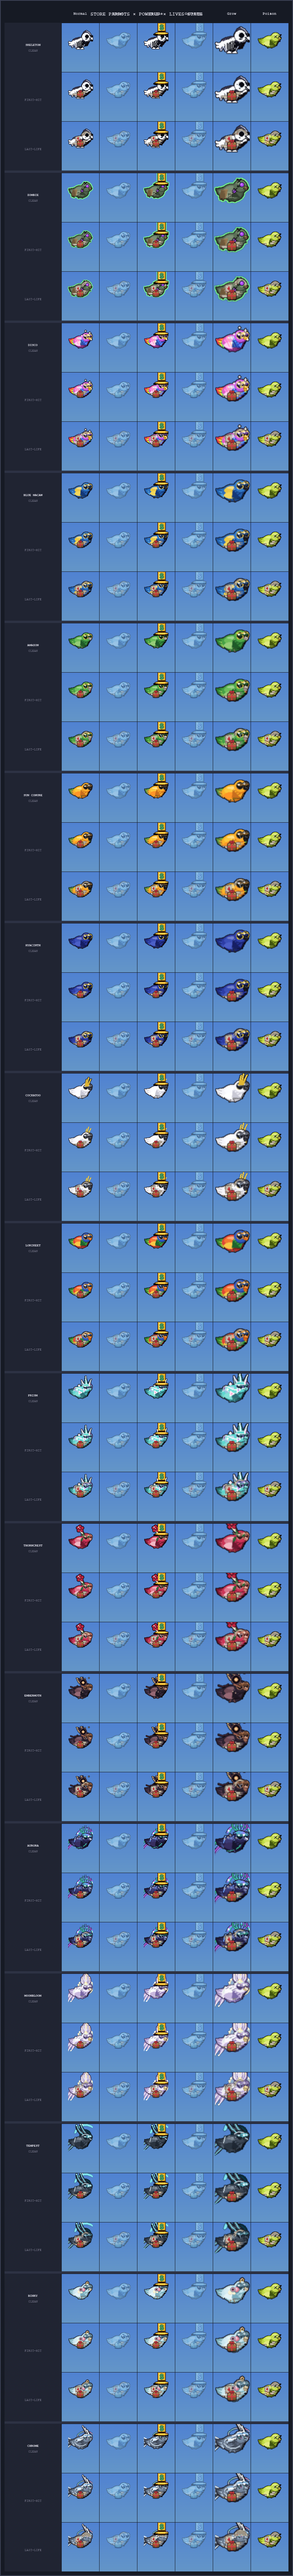
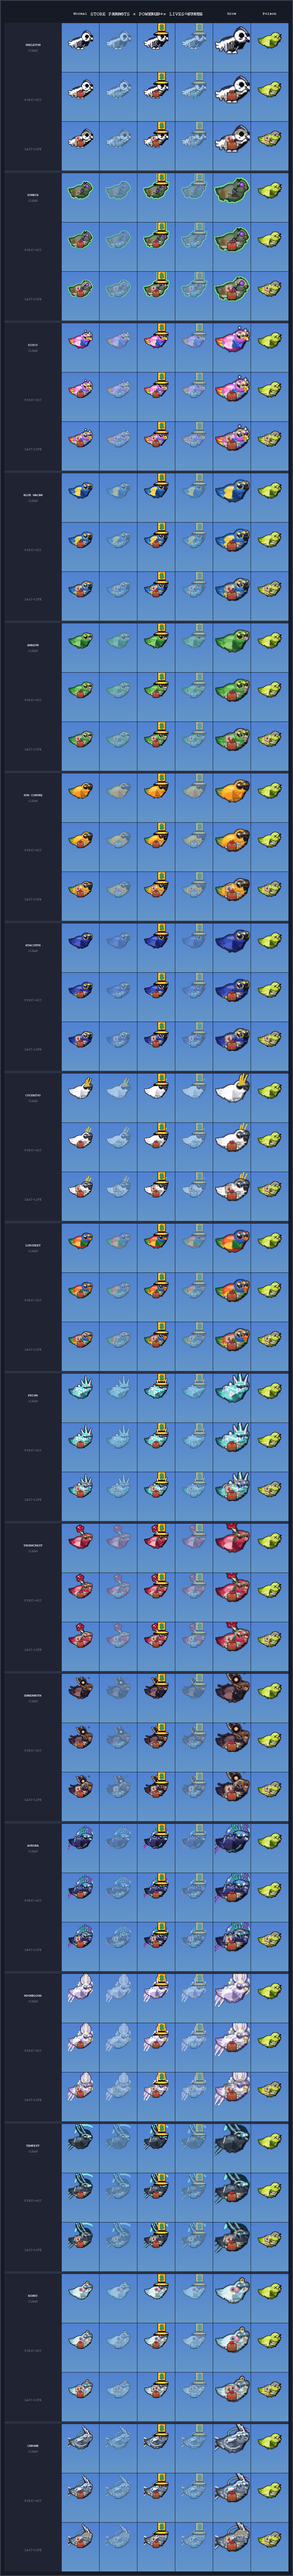
Fix ghost columns to reflect each skin's own accessories
Ghost and ghost_triple cells now tint each skin's own rendered frame
to spectral-cyan instead of rebuilding from the plain P_SPECTRAL body.
Skins with unique elements (disco sparkles, cockatoo crest, aurora halo,
zombie hex-aura, prism crystals, etc.) now show those elements ghosted.

Also fix _ghost_tint() to correctly apply translucency on SRCALPHA surfaces
(aurora, moonbloom, tempest, chrome, zombie) — set_alpha() was silently
ignored on those; now multiplies the alpha channel directly via surfarray.

Removes now-unused _build_ghost_hurt() and _build_ghost_triple_hurt().

Claude-Session: https://claude.ai/code/session_01SYxW5bMXxMEcZRx1arfvCN

Changed region(s): [[0.6202, 0.0, 0.7132, 0.9979], [0.3721, 0.0, 0.4651, 0.9979]]

diff --git a/docs/render_store_skin_powerup_lives_grid.py b/docs/render_store_skin_powerup_lives_grid.py
@@ -132,12 +132,17 @@ def _composite_with_back(comp, back_fn, outline_color):
 
 
 def _ghost_tint(img):
-    """Apply spectral blue numpy tint + translucency in-place."""
+    """Spectral-blue tint + translucency; works on SRCALPHA and non-SRCALPHA."""
     arr = sa.pixels3d(img)
     target = np.array([140, 200, 230], dtype=np.float32)
     arr[:] = (arr.astype(np.float32) * 0.60 + target * 0.40).clip(0, 255).astype(np.uint8)
     del arr
-    img.set_alpha(170)
+    if img.get_flags() & pygame.SRCALPHA:
+        alpha = sa.pixels_alpha(img)
+        alpha[:] = (alpha.astype(np.float32) * (170 / 255)).clip(0, 255).astype(np.uint8)
+        del alpha
+    else:
+        img.set_alpha(170)
 
 
 # ── skin raw composite (unoutlined, for hat insertion) ────────────────────────
@@ -247,49 +252,6 @@ def _build_triple(palette, paint_fn, back_fn, outline_color, draw_std_lenses,
     return result
 
 
-# ── ghost / ghost_triple builders (skin-agnostic) ─────────────────────────────
-
-def _build_ghost_hurt(lives_state):
-    """Spectral-blue macaw + lives dressings + ghost tint. Same for all skins."""
-    if lives_state == "last_life":
-        base = _build_parrot_with_palette(10.0, P_SPECTRAL, draw_lenses=False)
-        _h_draw_bandaids(base)
-        _h_draw_headwrap(base)
-        _draw_lenses(base, 50, 20, P_SPECTRAL)
-        _h_draw_chest_dressing(base)
-        _h_draw_ragged_cuts(base)
-        _h_draw_cracked_lens(base)
-    else:
-        base = _build_parrot_with_palette(10.0, P_SPECTRAL)
-        _h_draw_bandaids(base)
-        _fh_draw_single_crack(base)
-    img = _add_outline(base)
-    _ghost_tint(img)
-    return img
-
-
-def _build_ghost_triple_hurt(lives_state):
-    """Spectral-blue + ghost stovepipe + tint. Same for all skins."""
-    if lives_state == "last_life":
-        base = _build_parrot_with_palette(10.0, P_SPECTRAL, draw_lenses=False)
-        _h_draw_bandaids(base)
-        _h_draw_headwrap(base)
-        _draw_lenses(base, 50, 20, P_SPECTRAL)
-        _h_draw_chest_dressing(base)
-        _h_draw_ragged_cuts(base)
-        _h_draw_cracked_lens(base)
-    else:
-        base = _build_parrot_with_palette(10.0, P_SPECTRAL)
-        _h_draw_bandaids(base)
-        _fh_draw_single_crack(base)
-    canvas = pygame.Surface((COMPOSITE_W, COMPOSITE_H), pygame.SRCALPHA)
-    canvas.blit(base, (0, PARROT_DY))
-    draw_stovepipe_ghost(canvas, HAT_HX, HAT_HY)
-    img = _add_outline(canvas)
-    _ghost_tint(img)
-    return img
-
-
 # ── poison builders (skin-agnostic) ───────────────────────────────────────────
 
 def _build_poison_hurt(lives_state):
@@ -331,13 +293,15 @@ def render_cell(skin_id, palette, paint_fn, back_fn, outline_color,
             cell.blit(par, par.get_rect(center=(CELL_W // 2, BIRD_Y + 12)))
         return cell
 
-    # ── ghost (skin-agnostic — spectral palette overrides all skins) ──
+    # ── ghost (skin-aware: tint each skin's own frame to spectral) ──
     if effect == "ghost":
         if lives_state == "clean":
-            img = _parrot.get_ghost_parrot(1, 0.0).copy()
-            _ghost_tint(img)
+            img = _parrot.get_skin_frame(skin_id, 1, 0.0).copy()
+        elif lives_state == "first_hit":
+            img = _parrot.get_skin_first_hit_frame(skin_id, 1, 0.0).copy()
         else:
-            img = _build_ghost_hurt(lives_state)
+            img = _parrot.get_skin_hurt_frame(skin_id, 1, 0.0).copy()
+        _ghost_tint(img)
         cell.blit(img, img.get_rect(center=(CELL_W // 2, BIRD_Y)))
         if is_hurt:
             par = get_parcel("ghost").copy()
@@ -355,13 +319,11 @@ def render_cell(skin_id, palette, paint_fn, back_fn, outline_color,
             cell.blit(par, par.get_rect(center=(CELL_W // 2, BIRD_Y + 12)))
         return cell
 
-    # ── ghost_triple (skin-agnostic — spectral + ghost hat) ──
+    # ── ghost_triple (skin-aware: triple build + tint) ──
     if effect == "ghost_triple":
-        if lives_state == "clean":
-            img = _parrot.get_ghost_hat_parrot(1, 0.0).copy()
-            _ghost_tint(img)
-        else:
-            img = _build_ghost_triple_hurt(lives_state)
+        img = _build_triple(palette, paint_fn, back_fn, outline_color,
+                            draw_std_lenses, special, lives_state).copy()
+        _ghost_tint(img)
         cell.blit(img, img.get_rect(center=(CELL_W // 2, BIRD_Y)))
         if is_hurt:
             par = get_parcel("ghost").copy()
